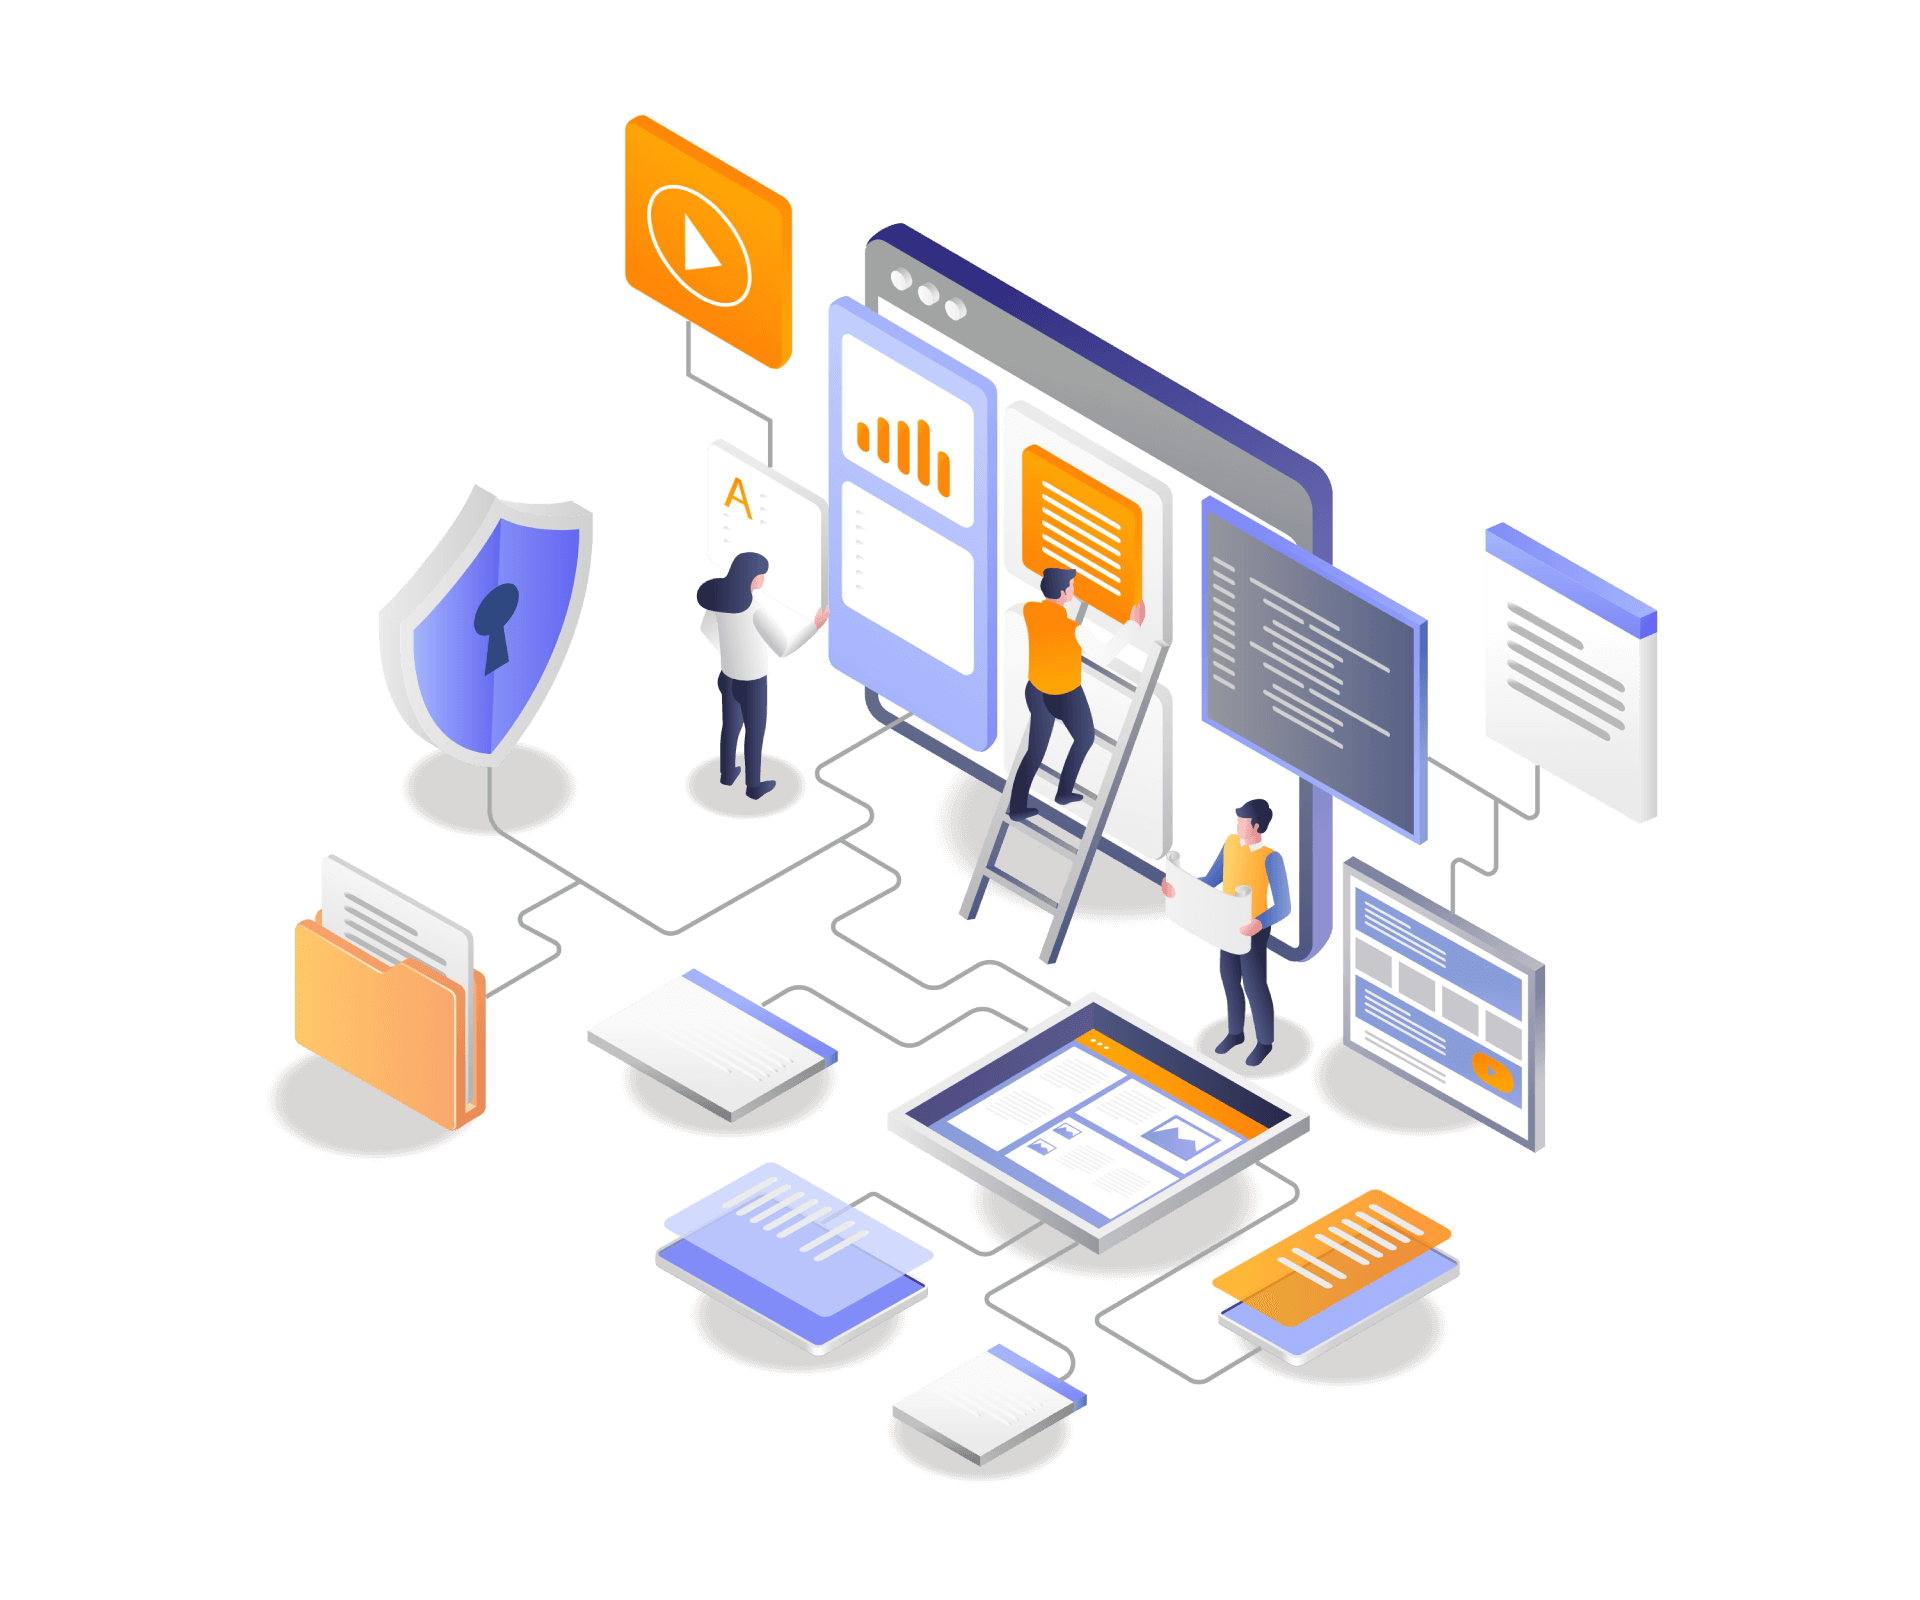
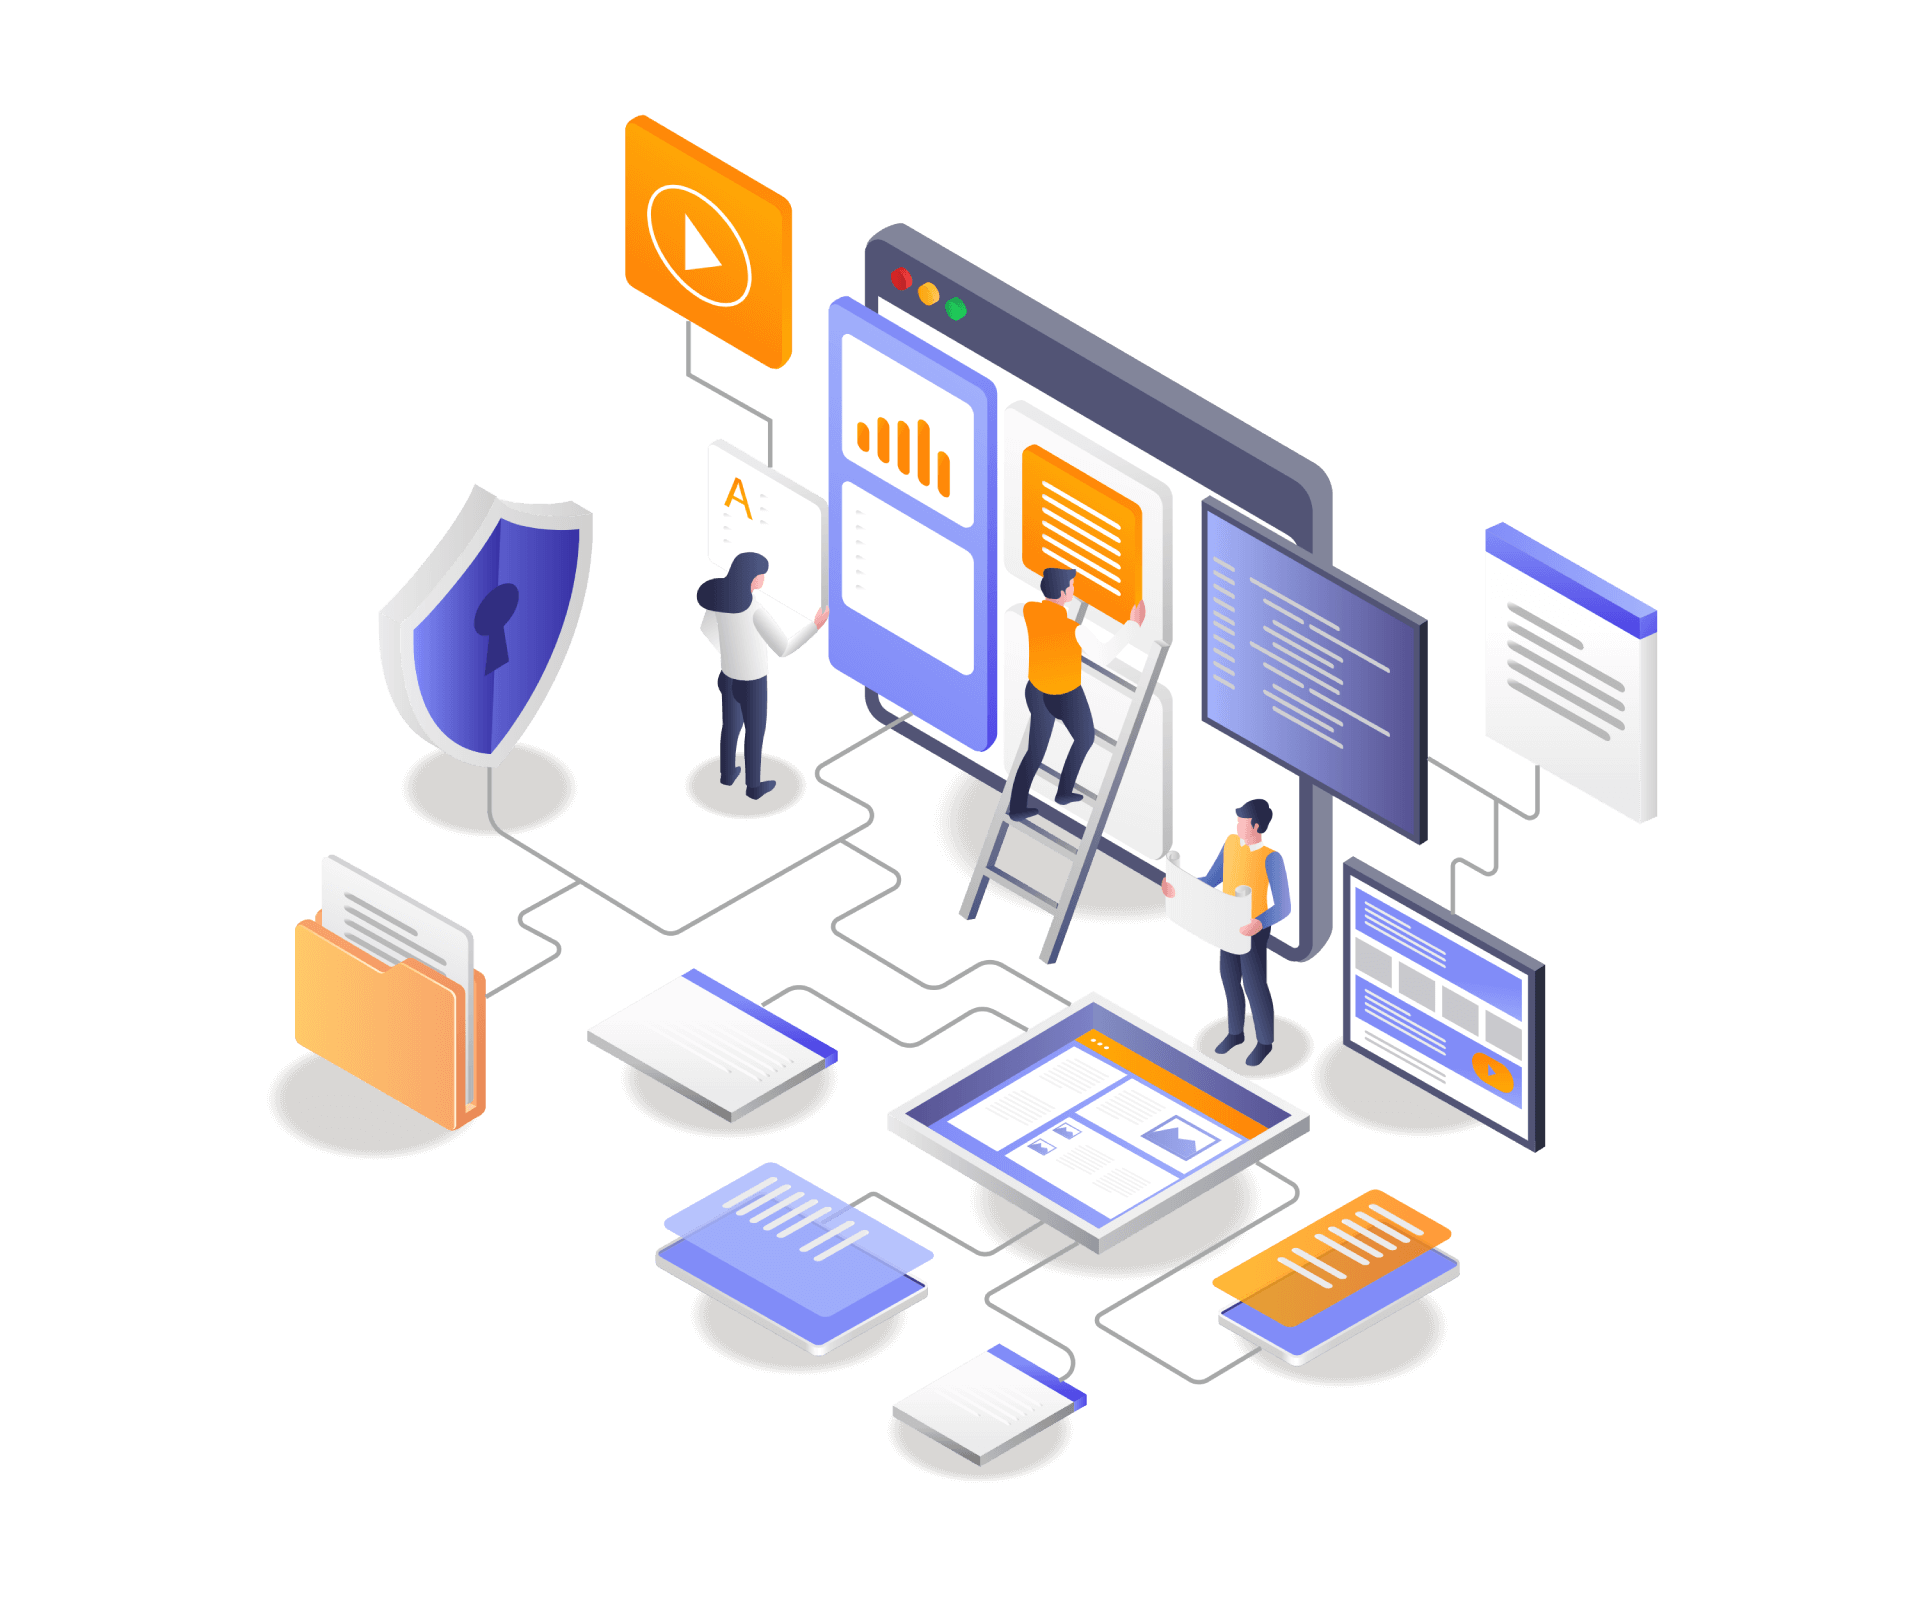
Add pricing section to homne page and update graphics to better match color palette.

diff --git a/pages/index.tsx b/pages/index.tsx
@@ -3,7 +3,9 @@ import {
   Button,
   chakra,
   Container,
+  Flex,
   Heading,
+  Icon,
   Link,
   SimpleGrid,
   Stack,
@@ -14,9 +16,11 @@ import { HiOutlinePuzzle } from '@react-icons/all-files/hi/HiOutlinePuzzle';
 import { MdDevices } from '@react-icons/all-files/md/MdDevices';
 import Image from 'next/image';
 import webIllustration from '../public/illustrations/web-development.png';
+import paymentIllustration from '../public/illustrations/payments.png';
 import logo from '../public/keplux-logo-full-dark.png';
 import { FeatureCardIcon, SplitSection } from '../src/components/sections';
 import AngleDivider from '../public/dividers/angle.svg';
+import { FaCheck } from '@react-icons/all-files/fa/FaCheck';
 
 const Home = () => {
   return (
@@ -194,6 +198,180 @@ const Home = () => {
           />
         </SimpleGrid>
       </Box>
+
+      <Container w="full" maxW="8xl">
+        <SplitSection containerStyle={{ mt: 28, mx: 'auto' }}>
+          <SplitSection.LeftContent>
+            <Heading as="h2">
+              Get a website for{' '}
+              <chakra.span color="brand.500" fontWeight="black">
+                $0
+              </chakra.span>{' '}
+              down and{' '}
+              <chakra.span color="brand.500" fontWeight="black">
+                $150
+              </chakra.span>{' '}
+              per month.
+            </Heading>
+            <Text>
+              If your business just needs an online presence, we offer a simple
+              package that gives you everything you need to get online and stay
+              online. By providing your own content, this package keeps your
+              costs low. However, addons are available if you need them.
+            </Text>
+            <SimpleGrid columns={{ base: 1, lg: 2 }} gap={8} mt={8}>
+              <Flex gap={3}>
+                <Icon as={FaCheck} mt={-0.5} color="green.500" w={6} h={6} />
+                <Stack spacing={1}>
+                  <Heading
+                    as="h3"
+                    fontSize="lg"
+                    fontWeight="black"
+                    textTransform="uppercase"
+                  >
+                    Website template
+                  </Heading>
+                  <Text fontSize="sm">
+                    Choose one of our beautiful, high performance templates and
+                    provide content for up to 5 pages.
+                  </Text>
+                </Stack>
+              </Flex>
+              <Flex gap={3}>
+                <Icon as={FaCheck} mt={-0.5} color="green.500" w={6} h={6} />
+                <Stack spacing={1}>
+                  <Heading
+                    as="h3"
+                    fontSize="lg"
+                    fontWeight="black"
+                    textTransform="uppercase"
+                  >
+                    Responsive design
+                  </Heading>
+                  <Text fontSize="sm">
+                    We make sure your site looks great on mobile devices,
+                    desktop devices, and everything in between.
+                  </Text>
+                </Stack>
+              </Flex>
+              <Flex gap={3}>
+                <Icon as={FaCheck} mt={-0.5} color="green.500" w={6} h={6} />
+                <Stack spacing={1}>
+                  <Heading
+                    as="h3"
+                    fontSize="lg"
+                    fontWeight="black"
+                    textTransform="uppercase"
+                  >
+                    Unlimited content updates
+                  </Heading>
+                  <Text fontSize="sm">
+                    Need to make a change to your content? Let us know and
+                    we&apos;ll take care of it the same day! Larger updates may
+                    take up to 24 hours.
+                  </Text>
+                </Stack>
+              </Flex>
+              <Flex gap={3}>
+                <Icon as={FaCheck} mt={-0.5} color="green.500" w={6} h={6} />
+                <Stack spacing={1}>
+                  <Heading
+                    as="h3"
+                    fontSize="lg"
+                    fontWeight="black"
+                    textTransform="uppercase"
+                  >
+                    SEO and accessibility
+                  </Heading>
+                  <Text fontSize="sm">
+                    Help your page rank high in search engine results with
+                    crucial SEO and accessibility implementations.
+                  </Text>
+                </Stack>
+              </Flex>
+              <Flex gap={3}>
+                <Icon as={FaCheck} mt={-0.5} color="green.500" w={6} h={6} />
+                <Stack spacing={1}>
+                  <Heading
+                    as="h3"
+                    fontSize="lg"
+                    fontWeight="black"
+                    textTransform="uppercase"
+                  >
+                    Hosting
+                  </Heading>
+                  <Text fontSize="sm">
+                    Free hosting with one of our hosting providers. Includes a
+                    free SSL certificate generated with Let&apos;s Encrypt.
+                  </Text>
+                </Stack>
+              </Flex>
+              <Flex gap={3}>
+                <Icon as={FaCheck} mt={-0.5} color="green.500" w={6} h={6} />
+                <Stack spacing={1}>
+                  <Heading
+                    as="h3"
+                    fontSize="lg"
+                    fontWeight="black"
+                    textTransform="uppercase"
+                  >
+                    Google Maps
+                  </Heading>
+                  <Text fontSize="sm">
+                    Show your visitors where your business is located with an
+                    interactive map provided byy Google Maps.
+                  </Text>
+                </Stack>
+              </Flex>
+              <Flex gap={3}>
+                <Icon as={FaCheck} mt={-0.5} color="green.500" w={6} h={6} />
+                <Stack spacing={1}>
+                  <Heading
+                    as="h3"
+                    fontSize="lg"
+                    fontWeight="black"
+                    textTransform="uppercase"
+                  >
+                    24/7 support and maintenance
+                  </Heading>
+                  <Text fontSize="sm">
+                    We&apos;re available at any time to provide service. We will
+                    also perform maintenance when necessary, such as patching
+                    security vulnerabilities.
+                  </Text>
+                </Stack>
+              </Flex>
+              <Flex gap={3}>
+                <Icon as={FaCheck} mt={-0.5} color="green.500" w={6} h={6} />
+                <Stack spacing={1}>
+                  <Heading
+                    as="h3"
+                    fontSize="lg"
+                    fontWeight="black"
+                    textTransform="uppercase"
+                  >
+                    Custom contact form
+                  </Heading>
+                  <Text fontSize="sm">
+                    Let users provide your business with the information you
+                    need. We&apos;ll make sure it gets to your inbox.
+                  </Text>
+                </Stack>
+              </Flex>
+            </SimpleGrid>
+          </SplitSection.LeftContent>
+          <SplitSection.RightContent>
+            <Box position="relative" w="full" h="full" minH={72}>
+              <Image
+                src={paymentIllustration}
+                alt="A team building a website."
+                fill
+                style={{ objectFit: 'contain' }}
+              />
+            </Box>
+          </SplitSection.RightContent>
+        </SplitSection>
+      </Container>
     </Box>
   );
 };

diff --git a/styles/theme/styles/colors.ts b/styles/theme/styles/colors.ts
@@ -12,5 +12,4 @@ const colors = {
     900: '#312e81',
   },
 };
-
 export default colors;
